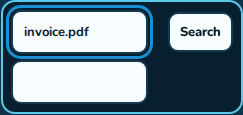
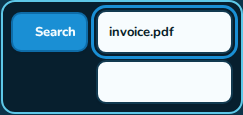
feat(improve-50): blue Type chip on the left
Keep Type on the left of Name in a fixed-width blue chip so switching Read/Search/Approve does not move the fields, and drop the cream fill that read as a second input.

diff --git a/e2e/improve-50-type-chip.spec.ts b/e2e/improve-50-type-chip.spec.ts
@@ -9,15 +9,17 @@ function aside(page: import("@playwright/test").Page) {
   return page.locator("aside");
 }
 
-test.describe("Improvement 50 — Type chip on the right, Name caret room", () => {
-  test("Type chip sits right of Name; Name length stays put; caret is not clipped", async ({
+test.describe("Improvement 50 — Type chip on the left, Name caret room", () => {
+  test("Type chip sits left of Name; chip and Name stay put; caret is not clipped", async ({
     page,
   }) => {
     await loadOakPark(page);
     await page.getByText(DEMO_STEP).first().click();
 
     const nameField = aside(page).locator(".inspector-fields .inspector-field").first();
+    const detailsField = aside(page).locator(".inspector-fields .inspector-field").nth(1);
     const nameBox = nameField.locator(".inspector-field-box");
+    const detailsBox = detailsField.locator(".inspector-field-box");
     const prefix = nameField.locator(".inspector-field-prefix");
     const name = aside(page).locator("#step-name-field");
 
@@ -27,13 +29,23 @@ test.describe("Improvement 50 — Type chip on the right, Name caret room", () =
     const boxHit = await nameBox.boundingBox();
     const prefixHit = await prefix.boundingBox();
     expect(boxHit && prefixHit).toBeTruthy();
-    expect(prefixHit!.x).toBeGreaterThan(boxHit!.x + boxHit!.width - 2);
+    expect(prefixHit!.x + prefixHit!.width).toBeLessThanOrEqual(boxHit!.x + 2);
 
-    const readWidth = boxHit!.width;
+    const readName = boxHit!.width;
+    const readChip = prefixHit!.width;
+    const readDetailsX = (await detailsBox.boundingBox())!.x;
     await aside(page).getByRole("button", { name: "Type Search" }).click();
     await expect(prefix.locator(".inspector-field-prefix-label")).toHaveText("Search");
-    const searchWidth = (await nameBox.boundingBox())!.width;
-    expect(Math.abs(searchWidth - readWidth)).toBeLessThan(2);
+    const searchChip = (await prefix.boundingBox())!.width;
+    const searchName = (await nameBox.boundingBox())!.width;
+    const searchDetailsX = (await detailsBox.boundingBox())!.x;
+    expect(Math.abs(searchChip - readChip)).toBeLessThan(2);
+    expect(Math.abs(searchName - readName)).toBeLessThan(2);
+    expect(Math.abs(searchDetailsX - readDetailsX)).toBeLessThan(2);
+    const chipColor = await prefix
+      .locator(".inspector-field-prefix-label")
+      .evaluate((el) => getComputedStyle(el).backgroundColor);
+    expect(chipColor).toBe("rgb(26, 143, 212)");
 
     await name.click();
     await expect(name).toBeFocused();
@@ -55,7 +67,7 @@ test.describe("Improvement 50 — Type chip on the right, Name caret room", () =
 test.describe("Improvement 50 min-width", () => {
   test.use({ viewport: { width: 1024, height: 768 } });
 
-  test("Type chip still sits right of Name at 1024", async ({ page }) => {
+  test("Type chip still sits left of Name at 1024", async ({ page }) => {
     await loadOakPark(page);
     await page.getByText(DEMO_STEP).first().click();
     await waitForLayout(page);
@@ -64,7 +76,7 @@ test.describe("Improvement 50 min-width", () => {
     const boxHit = await nameField.locator(".inspector-field-box").boundingBox();
     const prefixHit = await nameField.locator(".inspector-field-prefix").boundingBox();
     expect(boxHit && prefixHit).toBeTruthy();
-    expect(prefixHit!.x).toBeGreaterThan(boxHit!.x + boxHit!.width - 2);
+    expect(prefixHit!.x + prefixHit!.width).toBeLessThanOrEqual(boxHit!.x + 2);
     await expect(nameField.locator(".inspector-field-prefix-label")).toHaveText("Read");
 
     await capturePage(page, `${EVIDENCE}/type-chip-1024.png`);

diff --git a/src/app/styles/tokens.css b/src/app/styles/tokens.css
@@ -1507,6 +1507,15 @@ body.is-tile-dragging * {
 
 .inspector-trash {
   flex: 0 0 auto;
+  /* Idle tile-X red (--minus). Hover uses the darker --minus-active. */
+  --ai-color: var(--minus);
+  --ai-hover: var(--minus-active);
+  color: var(--minus) !important;
+}
+
+.inspector-trash:hover,
+.inspector-trash:focus-visible {
+  color: var(--minus-active) !important;
 }
 
 .inspector-type:focus-visible,
@@ -1659,7 +1668,7 @@ body.is-tile-dragging * {
   font-weight: 800;
   font-size: 13px;
   line-height: 20px;
-  color: var(--ink);
+  color: var(--chrome-ink);
 }
 
 .inspector-field-prefix-sizer {
@@ -1678,12 +1687,10 @@ body.is-tile-dragging * {
 
 .inspector-field-prefix-label {
   position: absolute;
-  top: 50%;
-  right: 0;
-  transform: translateY(-50%);
+  inset: 0;
   display: flex;
   align-items: center;
-  justify-content: center;
+  justify-content: flex-end;
   font-weight: 800;
   font-size: 13px;
   line-height: 20px;
@@ -1692,12 +1699,11 @@ body.is-tile-dragging * {
 }
 
 .inspector-field-prefix.has-chip .inspector-field-prefix-label {
-  min-height: 36px;
   padding: 8px 10px;
-  border: 2px solid var(--line);
+  border: 2px solid var(--blue-deep);
   border-radius: 10px;
-  background: var(--cream);
-  color: var(--ink);
+  background: var(--blue);
+  color: var(--chrome-ink);
   box-shadow: var(--chip-shadow);
 }
 

diff --git a/src/app/inspector/InspectorField.tsx b/src/app/inspector/InspectorField.tsx
@@ -1,5 +1,5 @@
 /**
- * Compact inspector text: Name/Details in a rounded sub-box, Type chip on the right.
+ * Compact inspector text: fixed Type chip on the left, Name/Details in a cream box.
  */
 import { LONGEST_STEP_KIND_LABEL } from "../../workflow/types";
 
@@ -24,6 +24,12 @@ export function InspectorField({
   const chip = Boolean(prefix);
   return (
     <div className={`inspector-field${disabled ? " is-off" : ""}`}>
+      {prefixSlot ? (
+        <span className={`inspector-field-prefix${chip ? " has-chip" : ""}`} aria-hidden="true">
+          <span className="inspector-field-prefix-sizer">{LONGEST_STEP_KIND_LABEL}</span>
+          <span className="inspector-field-prefix-label">{prefix ?? ""}</span>
+        </span>
+      ) : null}
       <div
         className="inspector-field-box"
         onClick={(e) => {
@@ -40,12 +46,6 @@ export function InspectorField({
           onChange={(e) => onChange(e.target.value)}
         />
       </div>
-      {prefixSlot ? (
-        <span className={`inspector-field-prefix${chip ? " has-chip" : ""}`} aria-hidden="true">
-          <span className="inspector-field-prefix-sizer">{LONGEST_STEP_KIND_LABEL}</span>
-          <span className="inspector-field-prefix-label">{prefix ?? ""}</span>
-        </span>
-      ) : null}
     </div>
   );
 }

diff --git a/src/app/App.test.tsx b/src/app/App.test.tsx
@@ -393,7 +393,7 @@ test("Step Name uses a Type prefix and drops Name/Details captions", () => {
   const prefix = nameField?.querySelector(".inspector-field-prefix");
   expect(prefix?.querySelector(".inspector-field-prefix-label")?.textContent).toBe("Read");
   expect(prefix?.classList.contains("has-chip")).toBe(true);
-  expect(nameBox?.nextElementSibling).toBe(prefix);
+  expect(prefix?.nextElementSibling).toBe(nameBox);
   const name = rail?.querySelector<HTMLInputElement>("#step-name-field");
   const details = rail?.querySelector<HTMLInputElement>("#step-details-field");
   expect(name?.getAttribute("aria-label")).toBe("Name");

diff --git a/.docs/GOAL.md b/.docs/GOAL.md
@@ -256,3 +256,4 @@ Append only, newest last. Format: `- YYYY-MM-DD — <clause IDs> — <decision a
 - 2026-09-09 — P-06 — While a Tile is dragged, the contextual hint strip is hidden. There is no Drop keycap and no Esc Cancel chip. Escape still cancels the drag (CX-08). — approved by user
 - 2026-09-09 — P-07, BA-05, AQ-01, AQ-02 — Present is a Compare-style stacked Before (top) / After (bottom) board, still full-bleed and read-only. Each pane has a Tabler expand control at its top-right. Expand fills the window with that lane and tucks the other; the control becomes collapse (show split). Space expands Before, then toggles Before/After. Escape returns to split when a pane is expanded, then exits Present. Compare is unchanged and has no expand controls. Present panes share pan/zoom like Compare. — approved by user
 - 2026-09-09 — NA-07 — Inspector Name stays left-aligned in its cream box. The Type word is a lifted cream chip on the right, in a reserved column sized for the longest Type so the Name field length does not change. Other and Details leave that column empty. The Name caret is fully visible inside the box. Accessible names remain Name and Details. — approved by user
+- 2026-09-09 — NA-07 — Inspector Type stays on the left of Name, in a blue chip. The chip is one width (longest Type word) so switching Type does not move the Name or Details boxes. The Type word is right-aligned inside that chip. Other and Details leave the column empty (no empty chip). Name caret room is unchanged. — approved by user

diff --git a/.docs/handoff.md b/.docs/handoff.md
@@ -2523,5 +2523,16 @@ Corrections in the same chat before the next slice starts get their own short en
 - Status: COMPLETE
 - Commit: `feat(improve-51): expand Present Before After panes`
 
+## Improvement 50 — correction 1 — 2026-09-09
+
+- Requested: Type chip should stay on the left of Name (not after the Name box), use a blue fill instead of cream, and stay one width for every Type so Name/Details do not jump.
+- Changed: `InspectorField.tsx` puts the chip before the Name box. Chip is `--blue` / ice text, sized to Approve, Type word right-aligned. Tests and NA-07 amendment updated.
+- Tests and exact results:
+  - `npm run build` — pass (Vite 8.2.2). Node 24.
+  - `npm run test:unit` — App.test 21 pass; full suite was 310 before this correction.
+  - `npm run test:e2e` — `e2e/improve-50-type-chip.spec.ts` (2) pass.
+- Status: COMPLETE
+- Commit: `feat(improve-50): blue Type chip on the left`
+
 
 

diff --git a/.docs/IMPROVEMENTS.md b/.docs/IMPROVEMENTS.md
@@ -1043,6 +1043,12 @@ Append to `## Amendments` in `.docs/GOAL.md`: NA-07 as dated 2026-09-09 (Type ch
 Commit: `feat(improve-50): lift Type chip and unclip Name caret`.  
 Evidence: `.docs/evidence/improve-50-type-chip/`.
 
+## Correction 1 — 2026-09-09
+
+Type stays on the **left** of Name (not after the Name box). Chip fill is `--blue` with ice text, not cream. The chip is always the Approve-width column so clicking through Types does not move Name or Details. The Type word is right-aligned in that chip.
+
+Commit: `feat(improve-50): blue Type chip on the left`.
+
 ---
 
 # Improvement 51 — Present expand panes
